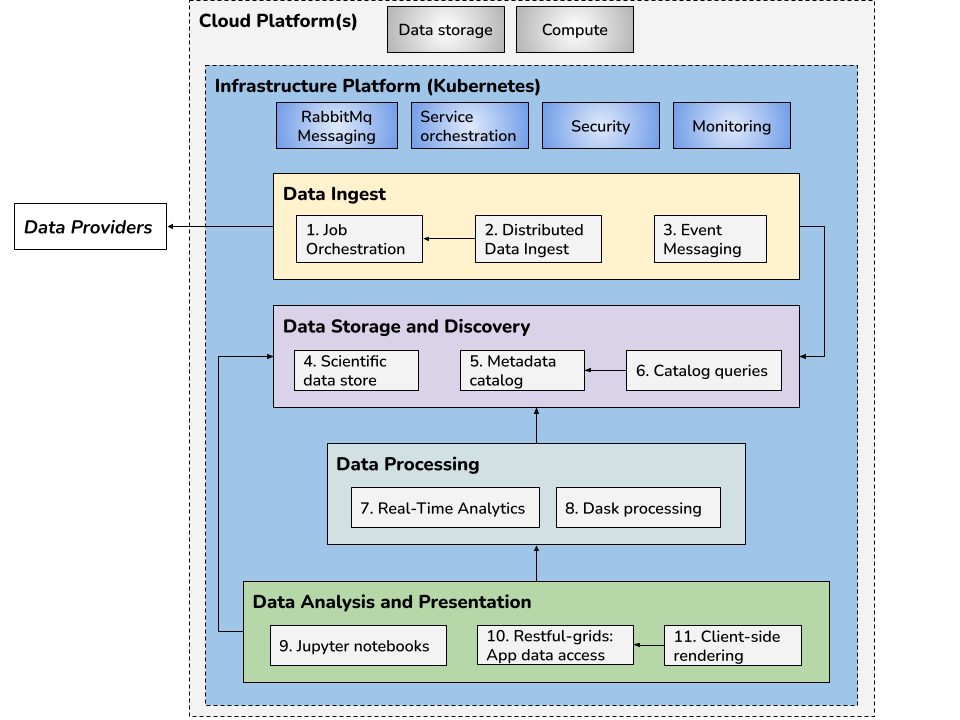
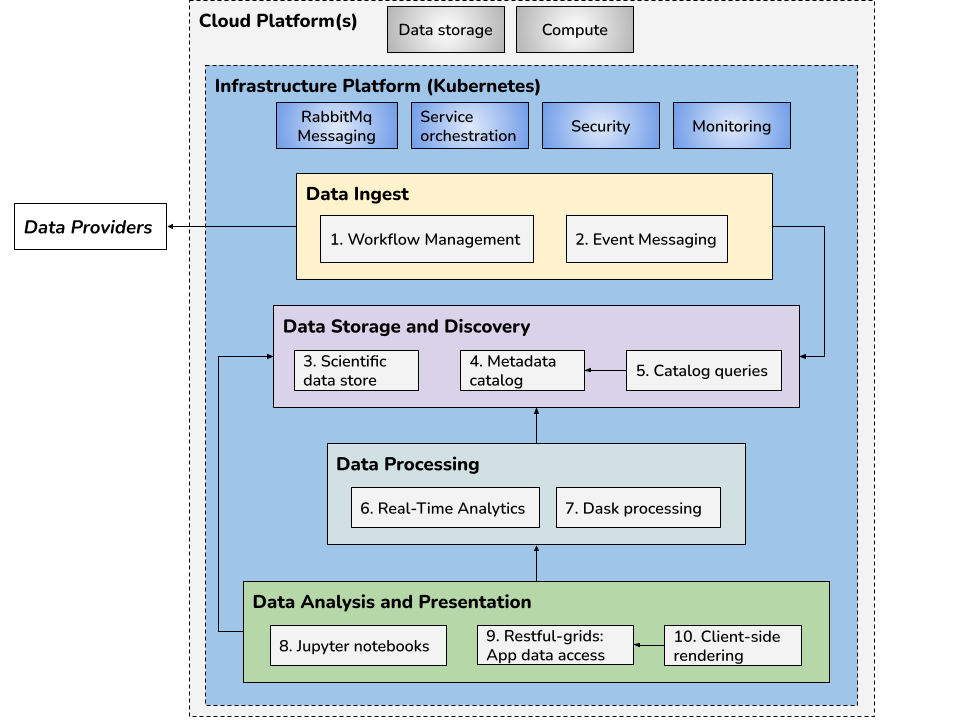
Updated prototype list to consolidate workflow management into one prototype section

diff --git a/README.md b/README.md
@@ -21,26 +21,25 @@ The planned prototypes seek to demonstrate a modern, interconnected system. Visi
 
 **[Data Ingest](https://asascience-open.github.io/nextgen-dmac/ingest/ingest.html)**
 
-1. [Job Orchestration](https://asascience-open.github.io/nextgen-dmac/ingest/orchestration.html)
-2. [Distributed Data Ingest](https://asascience-open.github.io/nextgen-dmac/ingest/distributed.html)
-3. [Event Messaging](https://asascience-open.github.io/nextgen-dmac/ingest/events.html)
+1. [Workflow Management](https://asascience-open.github.io/nextgen-dmac/ingest/workflows.html)
+2. [Event Messaging](https://asascience-open.github.io/nextgen-dmac/ingest/events.html)
 
 **[Data Storage and Discovery](https://asascience-open.github.io/nextgen-dmac/metadata/storage-and-discovery.html)**
 
-4.  [Scientific data store](https://asascience-open.github.io/nextgen-dmac/metadata/data-formats.html)
-5.  [Metadata Catalog](https://asascience-open.github.io/nextgen-dmac/metadata/catalog.html)
-6.  [Catalog Queries](https://asascience-open.github.io/nextgen-dmac/metadata/queries.html)
+3.  [Scientific data store](https://asascience-open.github.io/nextgen-dmac/metadata/data-formats.html)
+4.  [Metadata Catalog](https://asascience-open.github.io/nextgen-dmac/metadata/catalog.html)
+5.  [Catalog Queries](https://asascience-open.github.io/nextgen-dmac/metadata/queries.html)
 
 **Data Processing**
 
-7. Real-Time Analytics
-8. Dask Processing
+6. Real-Time Analytics
+7. Dask Processing
 
 **[Data Analysis and Presentation](https://asascience-open.github.io/nextgen-dmac/analysis/analysis.html)**
 
-9. Jupyter Notebooks
-10. [Restful Grids: App Data Access](https://asascience-open.github.io/nextgen-dmac/analysis/data-access.html)
-11. Client-side Rendering
+8. Jupyter Notebooks
+9. [Restful Grids: App Data Access](https://asascience-open.github.io/nextgen-dmac/analysis/data-access.html)
+10. Client-side Rendering
 
 ![Prototype diagram](/docs/assets/prototype-diagram.png)
 

diff --git a/docs/ingest/workflows.md b/docs/ingest/workflows.md
@@ -1,0 +1,27 @@
+---
+layout: default
+title: Workflow Management
+parent: Data Ingest
+nav_order: 1
+---
+
+# Workflow Management
+
+Workflow management is a modern pattern for managing a process that runs as a series of steps. In a data ingest pipeline, workflow management is critical for ensuring clean, valid data is coming into the system. There are numerous workflow platforms to choose from. Workflows are typically executed as a directed acyclic graph (DAG) which is a tree structure laying out each task. The software then spreads the execution of those steps across many processes to efficiently scale to meet the workload.
+
+We are currently experimenting with [Argo Workflows](https://argoproj.github.io/argo-workflows/) to run our pipelines. The key considerations for choosing Argo are:
+
+- Open Source
+- Promising long-term support by Cloud Native Computing Foundation (CNCF)
+- Runs natively on Kubernetes
+- Supports both DAG and Cron workloads
+- Template features for reuseability
+
+## Workflows for Forecast Model Data
+
+The primary tasks of the data ingest pipeline for model data are:
+
+- Quality Control
+- Compliance Checking
+- Indexing / Transformation
+- Metadata Indexing

diff --git a/docs/index.md b/docs/index.md
@@ -21,26 +21,25 @@ The planned prototypes seek to demonstrate a modern, interconnected system. Visi
 
 **[Data Ingest](ingest/ingest.md)**
 
-1.  [Job Orchestration](ingest/orchestration.md)
-2.  [Distributed Data Ingest](ingest/distributed.md)
-3.  [Event Messaging](ingest/events.md)
+1.  [Workflow Management](ingest/workflows.md)
+2.  [Event Messaging](ingest/events.md)
 
 **[Data Storage and Discovery](metadata/storage-and-discovery.md)**
 
-4.  [Scientific data store](metadata/data-formats.md)
-5.  [Metadata Catalog](metadata/catalog.md)
-6.  [Catalog Queries](metadata/queries.md)
+3.  [Scientific data store](metadata/data-formats.md)
+4.  [Metadata Catalog](metadata/catalog.md)
+5.  [Catalog Queries](metadata/queries.md)
 
 **Data Processing**
 
-7.  Real-Time Analytics
-8.  Dask Processing
+6.  Real-Time Analytics
+7.  Dask Processing
 
 **[Data Analysis and Presentation](analysis/analysis.md)**
 
-9.  Jupyter Notebooks
-10. [Restful Grids: App Data Access](analysis/data-access.md)
-11. Client-side Rendering
+8.  Jupyter Notebooks
+9. [Restful Grids: App Data Access](analysis/data-access.md)
+10. Client-side Rendering
 
 
 ![Prototype diagram](/assets/prototype-diagram.png)

diff --git a/docs/architecture/nebari.md b/docs/architecture/nebari.md
@@ -7,3 +7,5 @@ parent: System Architecture
 # Nebari Data Science Platform
 
 [Nebari](https://www.nebari.dev/) (formerly QHub) is an integrated data science platform providing access to cloud-based tools with a simple, standard configuration using a "DevOps for non-DevOps people approach." It brings together [numerous technologies](https://www.nebari.dev/docs/welcome#components) including JupyterHub and Dask and deploys them on a Kubernetes platform in the cloud.
+
+This tool has been easy to use and configure so far. The primary challenge has been configuring it to meet specific organization cloud security policies.

diff --git a/docs/ingest/events.md b/docs/ingest/events.md
@@ -1,7 +1,7 @@
 ---
 layout: default
 parent: Data Ingest
-nav_order: 3
+nav_order: 2
 ---
 
 # Event Messaging
